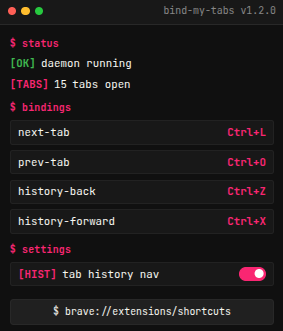
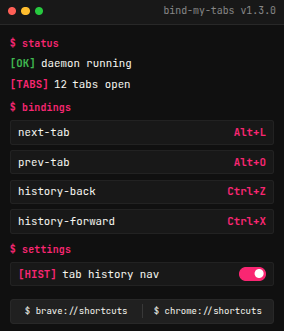
1.3.0
- chrome fix

diff --git a/background/service-worker.js b/background/service-worker.js
@@ -1,4 +1,9 @@
+let lastSwitchTime = 0;
 const switchTab = async (direction) => {
+  const now = Date.now();
+  if (now - lastSwitchTime < 100) return;
+  lastSwitchTime = now;
+
   try {
     const win = await chrome.windows.getLastFocused({ populate: false });
     if (!win) return;
@@ -28,23 +33,31 @@ const isHistoryNavEnabled = async () => {
   }
 };
 
-const navigateHistory = async (direction) => {
+let lastNavTime = 0;
+const navigateHistory = async (direction, tabId) => {
+  const now = Date.now();
+  if (now - lastNavTime < 100) return;
+  lastNavTime = now;
+
   try {
     const enabled = await isHistoryNavEnabled();
     if (!enabled) return;
 
-    const win = await chrome.windows.getLastFocused({ populate: false });
-    if (!win) return;
-    const tabs = await chrome.tabs.query({ windowId: win.id, active: true });
-    if (!tabs || tabs.length === 0) return;
+    let targetTabId = tabId;
+    if (!targetTabId) {
+      const win = await chrome.windows.getLastFocused({ populate: false });
+      if (!win) return;
+      const tabs = await chrome.tabs.query({ windowId: win.id, active: true });
+      if (!tabs || tabs.length === 0) return;
+      targetTabId = tabs[0]?.id;
+    }
 
-    const activeTab = tabs[0];
-    if (!activeTab || !activeTab.id) return;
+    if (!targetTabId) return;
 
     if (direction < 0) {
-      await chrome.tabs.goBack(activeTab.id);
+      await chrome.tabs.goBack(targetTabId);
     } else {
-      await chrome.tabs.goForward(activeTab.id);
+      await chrome.tabs.goForward(targetTabId);
     }
   } catch (err) {}
 };
@@ -55,3 +68,29 @@ chrome.commands.onCommand.addListener((cmd) => {
   if (cmd === 'history-back') navigateHistory(-1);
   if (cmd === 'history-forward') navigateHistory(1);
 });
+
+chrome.runtime.onMessage.addListener((msg, sender) => {
+  if (msg?.action === 'next-tab') switchTab(1);
+  if (msg?.action === 'prev-tab') switchTab(-1);
+  if (msg?.action === 'history-back') navigateHistory(-1, sender?.tab?.id);
+  if (msg?.action === 'history-forward') navigateHistory(1, sender?.tab?.id);
+});
+
+const injectContentScripts = async () => {
+  try {
+    const tabs = await chrome.tabs.query({ url: ['http://*/*', 'https://*/*'] });
+    for (const tab of tabs) {
+      if (tab.id) {
+        chrome.scripting.executeScript({
+          target: { tabId: tab.id, allFrames: true },
+          files: ['content/content-script.js']
+        }).catch(() => {});
+      }
+    }
+  } catch (err) {}
+};
+
+chrome.runtime.onInstalled.addListener(() => {
+  injectContentScripts();
+});
+

diff --git a/content/content-script.js b/content/content-script.js
@@ -1,0 +1,64 @@
+if (!window.__bindMyTabsInjected) {
+  window.__bindMyTabsInjected = true;
+
+  let historyNavEnabled = true;
+
+  chrome.storage.local.get({ historyNavEnabled: true }, (data) => {
+    historyNavEnabled = data.historyNavEnabled !== false;
+  });
+
+chrome.storage.onChanged.addListener((changes, area) => {
+  if (area === 'local' && changes.historyNavEnabled) {
+    historyNavEnabled = changes.historyNavEnabled.newValue !== false;
+  }
+});
+
+const isEditable = (target) => {
+  if (!target) return false;
+  if (target.isContentEditable) return true;
+  const tagName = target.tagName ? target.tagName.toUpperCase() : '';
+  if (tagName === 'INPUT' || tagName === 'TEXTAREA') return true;
+  if (target.getAttribute && target.getAttribute('role') === 'textbox') return true;
+  return false;
+};
+
+window.addEventListener('keydown', (e) => {
+  const isCtrl = (e.ctrlKey || e.metaKey) && !e.altKey && !e.shiftKey;
+  const isAlt = e.altKey && !e.ctrlKey && !e.shiftKey && !e.metaKey;
+  if (!isCtrl && !isAlt) return;
+
+  const code = e.code;
+  const key = e.key ? e.key.toLowerCase() : '';
+
+  const isL = code === 'KeyL' || key === 'l' || key === 'д';
+  const isO = code === 'KeyO' || key === 'o' || key === 'щ';
+  const isZ = code === 'KeyZ' || key === 'z' || key === 'я';
+  const isX = code === 'KeyX' || key === 'x' || key === 'ч';
+
+  if ((isAlt || isCtrl) && isL) {
+    // next-tab
+    e.preventDefault();
+    e.stopImmediatePropagation();
+    chrome.runtime.sendMessage({ action: 'next-tab' });
+  } else if ((isAlt || isCtrl) && isO) {
+    // prev-tab
+    e.preventDefault();
+    e.stopImmediatePropagation();
+    chrome.runtime.sendMessage({ action: 'prev-tab' });
+  } else if (isCtrl && isZ) {
+    // history-back
+    if (historyNavEnabled && !isEditable(e.target)) {
+      e.preventDefault();
+      e.stopImmediatePropagation();
+      chrome.runtime.sendMessage({ action: 'history-back' });
+    }
+  } else if (isCtrl && isX) {
+    // history-forward
+    if (historyNavEnabled && !isEditable(e.target)) {
+      e.preventDefault();
+      e.stopImmediatePropagation();
+      chrome.runtime.sendMessage({ action: 'history-forward' });
+    }
+  }
+}, true);
+}

diff --git a/popup/popup.js b/popup/popup.js
@@ -4,7 +4,8 @@ const elPrev = document.getElementById('key-prev');
 const elHistBack = document.getElementById('key-history-back');
 const elHistFwd = document.getElementById('key-history-forward');
 const toggleHistory = document.getElementById('toggle-history');
-const btnCfg = document.getElementById('btn-cfg');
+const btnBrave = document.getElementById('btn-cfg-brave');
+const btnChrome = document.getElementById('btn-cfg-chrome');
 
 const init = async () => {
   try {
@@ -32,14 +33,18 @@ const init = async () => {
   } catch (err) {}
 };
 
-toggleHistory.addEventListener('change', async () => {
+toggleHistory?.addEventListener('change', async () => {
   try {
     await chrome.storage.local.set({ historyNavEnabled: toggleHistory.checked });
   } catch (err) {}
 });
 
-btnCfg.addEventListener('click', () => {
+btnBrave?.addEventListener('click', () => {
   chrome.tabs.create({ url: 'brave://extensions/shortcuts' });
+});
+
+btnChrome?.addEventListener('click', () => {
+  chrome.tabs.create({ url: 'chrome://extensions/shortcuts' });
 });
 
 document.addEventListener('DOMContentLoaded', init);

diff --git a/popup/popup.css b/popup/popup.css
@@ -163,6 +163,42 @@ input:checked + .slider:before {
   margin-top: 8px;
 }
 
+.actions-split {
+  display: flex;
+  align-items: center;
+  background-color: #202020;
+  border: 1px solid #282828;
+  border-radius: 4px;
+  margin-top: 8px;
+  overflow: hidden;
+}
+
+.btn-split {
+  flex: 1;
+  padding: 6px 4px;
+  background: transparent;
+  border: none;
+  color: #F8F8F2;
+  font-family: inherit;
+  font-size: 10px;
+  text-align: center;
+  cursor: pointer;
+  transition: background 0.15s ease, color 0.15s ease;
+  white-space: nowrap;
+}
+
+.btn-split:hover {
+  background-color: #282828;
+  color: #58a6ff;
+}
+
+.split-divider {
+  width: 1px;
+  height: 16px;
+  background-color: #383838;
+  flex-shrink: 0;
+}
+
 .btn {
   width: 100%;
   padding: 6px 8px;
@@ -182,3 +218,4 @@ input:checked + .slider:before {
   border-color: #F92672;
   color: #F92672;
 }
+

diff --git a/popup/popup.html b/popup/popup.html
@@ -12,7 +12,7 @@
       <span class="dot red"></span>
       <span class="dot yellow"></span>
       <span class="dot green"></span>
-      <span class="title">bind-my-tabs v1.2.0</span>
+      <span class="title">bind-my-tabs v1.3.0</span>
     </div>
     <div class="content">
       <div class="section-head">
@@ -39,8 +39,10 @@
           <span class="slider"></span>
         </label>
       </div>
-      <div class="actions">
-        <button id="btn-cfg" class="btn">$ brave://extensions/shortcuts</button>
+      <div class="actions-split">
+        <button id="btn-cfg-brave" class="btn-split" title="brave://extensions/shortcuts">$ brave://shortcuts</button>
+        <span class="split-divider"></span>
+        <button id="btn-cfg-chrome" class="btn-split" title="chrome://extensions/shortcuts">$ chrome://shortcuts</button>
       </div>
     </div>
   </div>

diff --git a/README.md b/README.md
@@ -10,18 +10,18 @@ Minimalist tab switching daemon for Brave / Chromium.
 
 ## Architecture
 
-- Pure Manifest V3 `chrome.commands` backend
-- No injected content scripts into DOM
+- Manifest V3 backend (`chrome.commands` + keyboard event capture)
+- Prevents default shortcut conflicts (e.g. `Ctrl+O` open file, `Ctrl+L` omnibox) across Chromium browsers
 
 ## Install
 
-1. Open `brave://extensions`
+1. Open `brave://extensions` (or `chrome://extensions`)
 2. Enable **Developer mode**
 3. Click **Load unpacked** and select this directory
 
 ## Configure Shortcuts
 
-Open `brave://extensions/shortcuts` and bind commands:
+Open `brave://extensions/shortcuts` (or `chrome://extensions/shortcuts`):
 - `next-tab`
 - `prev-tab`
 - `history-back`
